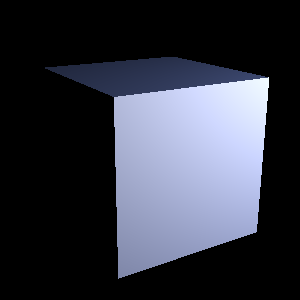
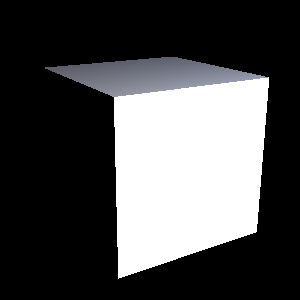
done

diff --git a/ray1.2/src/ray/material/Phong.java b/ray1.2/src/ray/material/Phong.java
@@ -29,26 +29,37 @@ public class Phong extends Lambertian {
 		return "phong " + ambientColor + " " + diffuseColor + " " + specularColor + " " + exponent + " end";
 	}
 	
-	//TODO: this (SPECULAR)
 	@Override
-	public Color shade(Vector3 l, Vector3 v, Vector3 n) {
-		//compute halfway vector
+	public Color shade(Vector3 l, Vector3 v, Vector3 n, Color intensity, double r) {
+
+		//       diffuse        +      specular
+		// kd I max(0, n · li)  +  ks I max(0, n · hi)^p
+
+		//setup vars
 		Vector3 h = new Vector3();
 		h.add(l, v);
 		h.normalize();
 
-		//compute diffuse
-		Color diffusePart = this.diffuseColor;
+		//diffuse component= kd I max(0, n · li)
+		//kd
+		Color diffuse = new Color(diffuseColor);
+		//lI
+		diffuse.scale(intensity);
+		//max(0, n · li)
+		diffuse.scale(Math.max(0, n.dot(l)) / r / r);
 
-		//compute specular
-		Color specularPart = new Color(specularColor); 
-		specularPart.scale(Math.pow(Math.max(0, n.dot(h)), exponent));
+		//specular component= ks I max(0, n · hi)^p
+		//ks
+		Color specular = new Color(specularColor);
+		//I
+		specular.scale(intensity);
+		// max(0, n · hi)^p
+		specular.scale(Math.pow(Math.max(0, n.dot(h)), exponent) / r / r);
 
-		//final
-		Color reflectanceCoefficient = new Color(diffusePart);
-		reflectanceCoefficient.add(specularPart);
-		
-		return reflectanceCoefficient;
+		//add them together
+		Color c = new Color(diffuse);
+		c.add(specular);
 
+		return c;
 	}
 }

diff --git a/ray1.2/src/ray/light/PointLight.java b/ray1.2/src/ray/light/PointLight.java
@@ -62,27 +62,13 @@ public class PointLight extends Light {
 		//compute illumination if nothing in the way
 		if (shadowHit == null || shadowHit.getT() >= r)
 		{	
-			// formula trying to acheive :
-			// kd I max(0, n · li) + ks I max(0, n · hi)^p
-			
 			//setup vars
 			Vector3 n = hitRecord.getNormal();
-			Vector3 h = new Vector3();
-			Color I = new Color(intensity);
-			h.add(l, v);
-			h.normalize();
-			Color k = hitRecord.getSurface().getMaterial().shade(l, v, n);
-			//ray.material.Material material = hitRecord.getSurface().getMaterial();
-			
-			//Ii 
-			Color diffusePart = new Color(I); 
-			//max(0, n · li)
-			diffusePart.scale(Math.max(0, n.dot(l)) / r / r);
-			//kd
-			diffusePart.scale(k);
-			c = diffusePart;
 
-			// + specular stuff	
+			// formula trying to acheive within:
+			// kd I max(0, n · li) <- when lambertion material
+			// kd I max(0, n · li) + ks I max(0, n · hi)^p <- when phong material
+			c = hitRecord.getSurface().getMaterial().shade(l, v, n, intensity, r);
 		}
 
 		// otherwise return black

diff --git a/ray1.2/src/ray/material/Lambertian.java b/ray1.2/src/ray/material/Lambertian.java
@@ -26,12 +26,17 @@ public class Lambertian extends Material {
 		return "lambertian: " + ambientColor + " " + diffuseColor + " end";
 	}
 	
-	//(DIFFUSE - reflects in all directions)
-	public Color shade(Vector3 l, Vector3 v, Vector3 n) 
+	public Color shade(Vector3 l, Vector3 v, Vector3 n, Color intensity, double r) 
 	{
+		//diffuse component only
 		//kd Ii max(0, n · li)
-		Color diffuse = new Color(ambientColor);
-		diffuse.scale(diffuseColor);
+
+		//kd
+		Color diffuse = new Color(diffuseColor);
+		//lI
+		diffuse.scale(intensity);
+		//max(0, n · li)
+		diffuse.scale(Math.max(0, n.dot(l)) / r / r);
 		
 		return diffuse;
 	}

diff --git a/ray1.2/src/ray/material/Material.java b/ray1.2/src/ray/material/Material.java
@@ -28,6 +28,6 @@ public abstract class Material {
 		return "material: " + ambientColor + " end";
 	}
   
-  public abstract Color shade(Vector3 l, Vector3 v, Vector3 n);
+  public abstract Color shade(Vector3 l, Vector3 v, Vector3 n, Color intensity, double r);
 
 }
